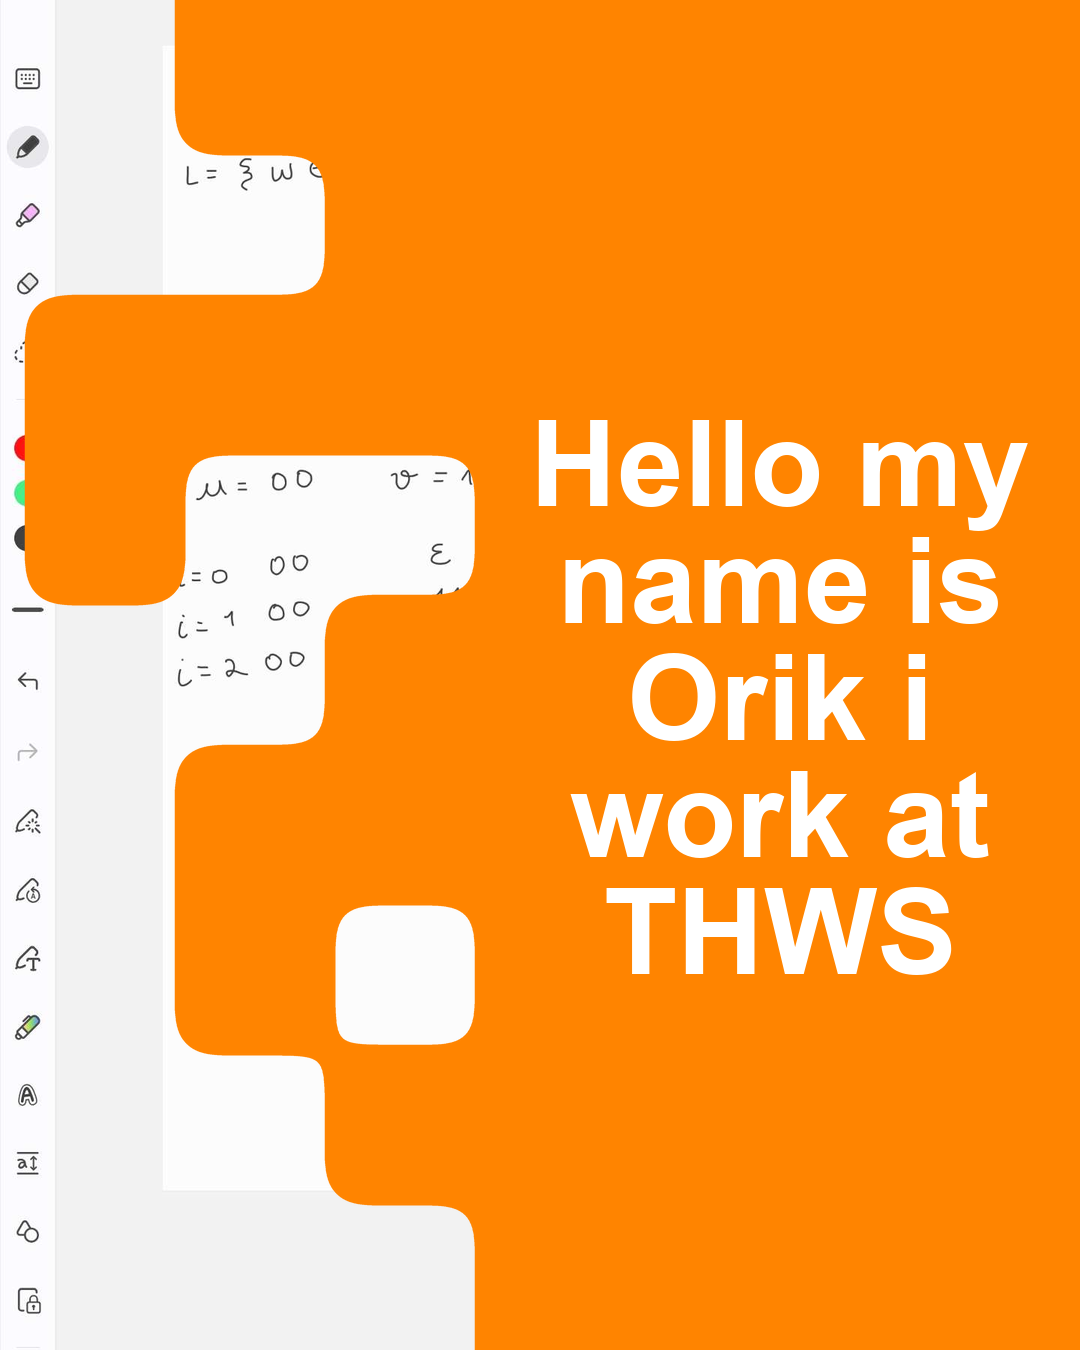
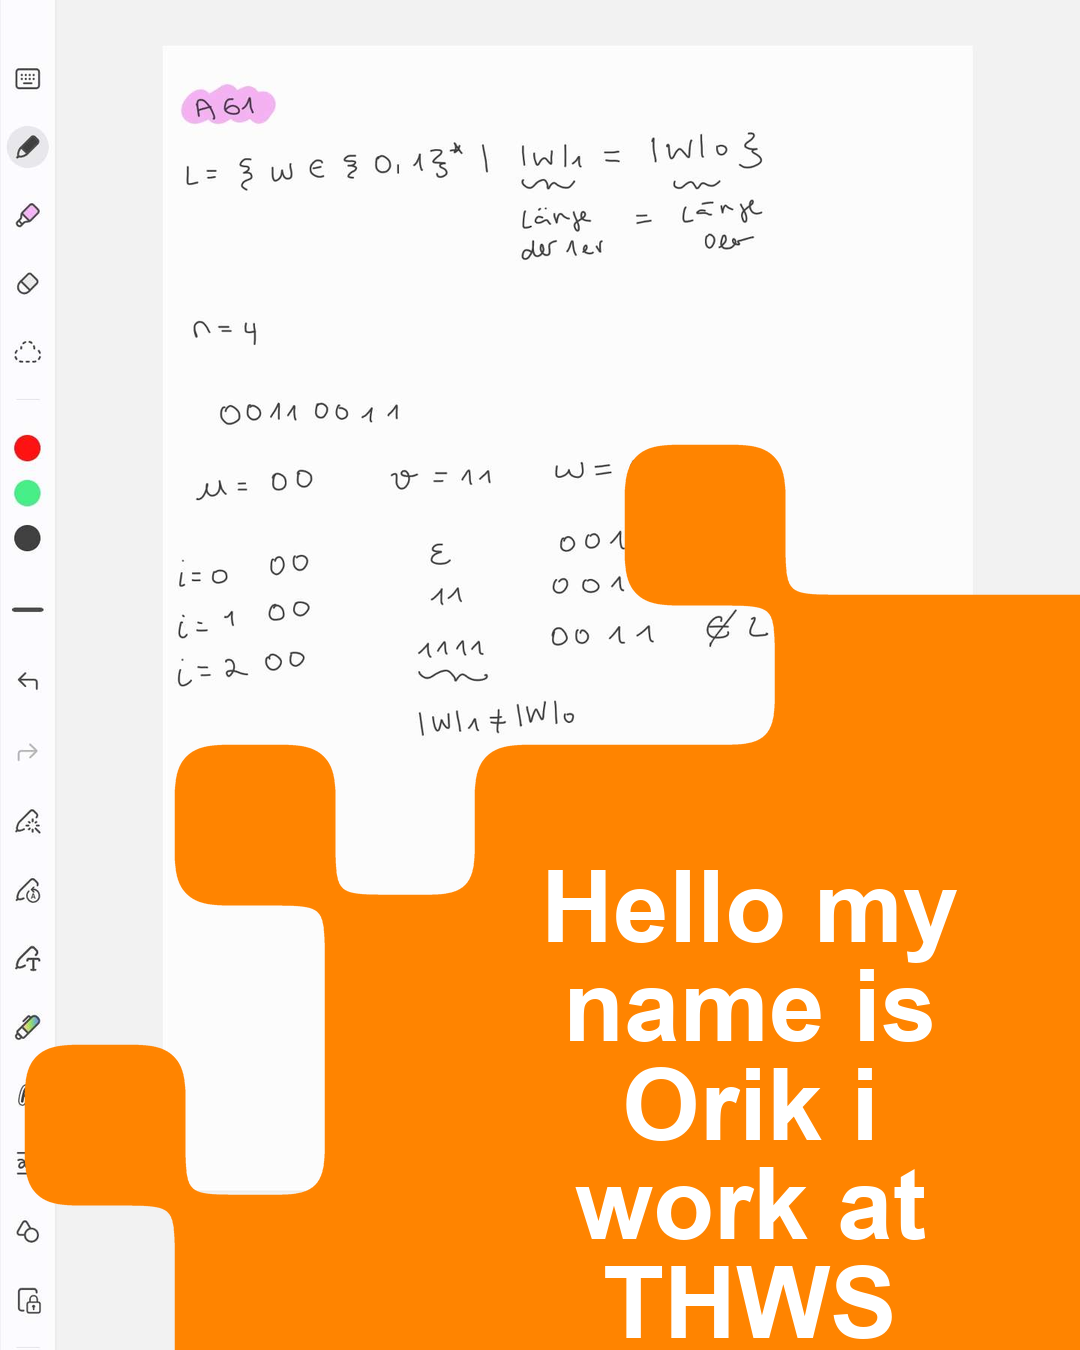
Added extra columns and rows for all templates. Now they are more ehanced. Also got rid of the use case where a template would have a single cell not surrounded by other cells. Referencing Issue #59

diff --git a/src/post_generator/services/overlay_service.py b/src/post_generator/services/overlay_service.py
@@ -39,24 +39,24 @@ BASE_TEMPLATES = [
         "1111111",
         "1111110",
         "1111100",
-        "1110000",
-        "0000100",
+        "1110010",
+        "0100100",
     ],
     [
         "1111110",
         "1111111",
         "1111110",
         "1111000",
-        "1110000",
-        "0000100",
+        "1110100",
+        "0010100",
     ],
     [
         "1111110",
         "1111111",
         "1111100",
-        "1111000",
+        "1111010",
         "1100000",
-        "0000000",
+        "0010000",
     ],
 ]
 
@@ -65,9 +65,9 @@ BASE_TEMPLATE = BASE_TEMPLATES[0]
 
 # Cells where random variation is allowed. Coordinates are (x, y), 0-based.
 # Avoid y=5 because it creates the extra bottom square/notch after mirroring.
-ALLOWED_ADD = [(6, 2)]
+ALLOWED_ADD = [(6, 2), (5, 4)]
 
-ALLOWED_REMOVE = [(5, 1), (4, 3), (2, 5)]
+ALLOWED_REMOVE = [(5, 1), (4, 3), (1, 5)]
 
 # ---------------------------------------------------------------------------
 # Side templates for "left" / "right" positions.
@@ -93,35 +93,35 @@ BASE_TEMPLATES_SIDE = [
         "1111110",
         "1111101",
         "1111110",
-        "1111100",
+        "1111101",
         "1111110",
         "1111101",
         "1111100",
-        "1111000",
+        "1111010",
     ],
     # Variant 2 — slightly different trail pattern, two far-right dots
     [
         "1111110",
-        "1111100",
+        "1111101",
         "1111110",
         "1111001",
         "1111100",
         "1111110",
         "1111010",
         "1111100",
-        "1111000",
+        "1111010",
     ],
     # Variant 3 — denser trail, more organic right edge
     [
-        "1111100",
+        "1111101",
         "1111110",
         "1111011",
         "1111110",
         "1111100",
         "1111110",
-        "1111100",
+        "1111101",
         "1111110",
-        "1111000",
+        "1111010",
     ],
 ]
 
@@ -129,7 +129,7 @@ BASE_TEMPLATES_SIDE = [
 # Only targets the fingerprint trail region (columns 4-6) so the solid
 # text block on the left stays intact.
 ALLOWED_ADD_SIDE = [(5, 0), (6, 2), (5, 4), (6, 6)]
-ALLOWED_REMOVE_SIDE = [(6, 1), (5, 3), (6, 5), (5, 7)]
+ALLOWED_REMOVE_SIDE = [(6, 1), (5, 3), (5, 8), (5, 7)]
 
 
 def template_to_grid(template: Template) -> Grid:
